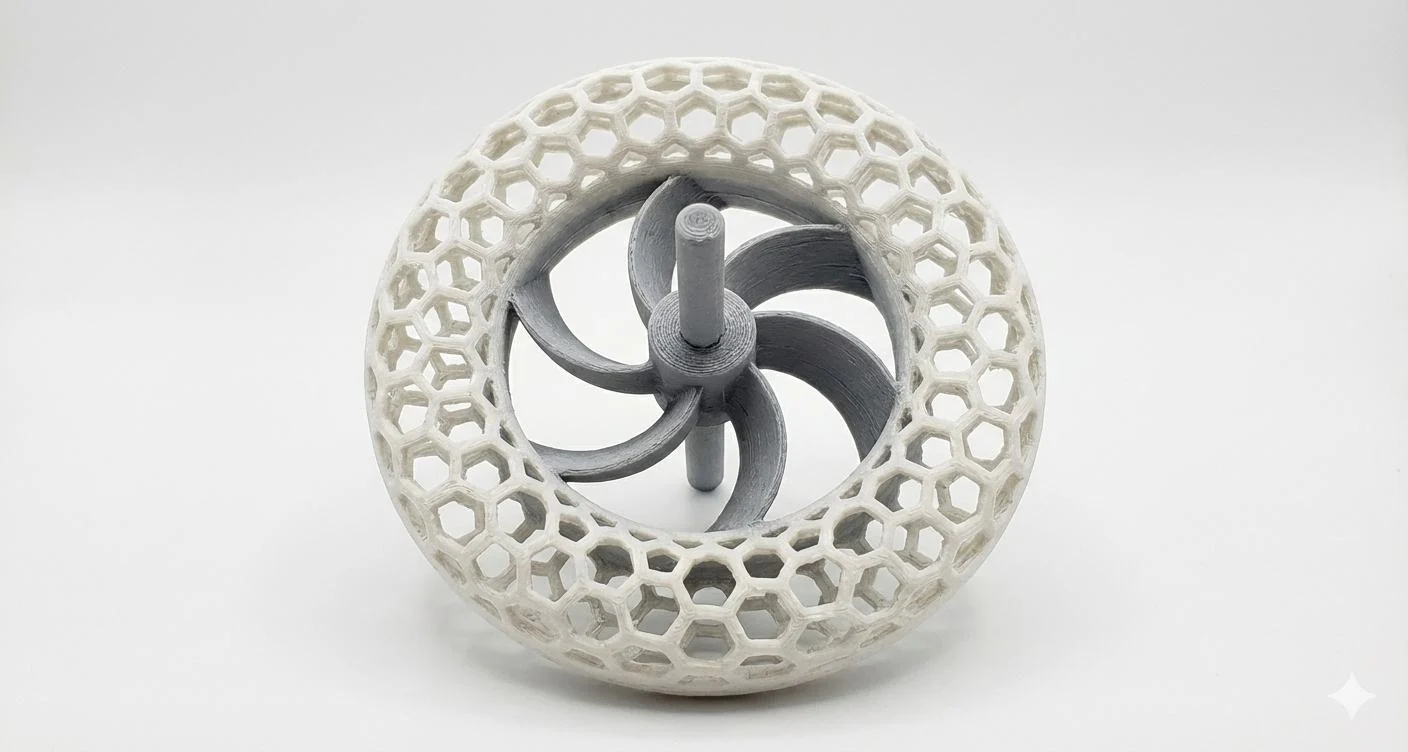
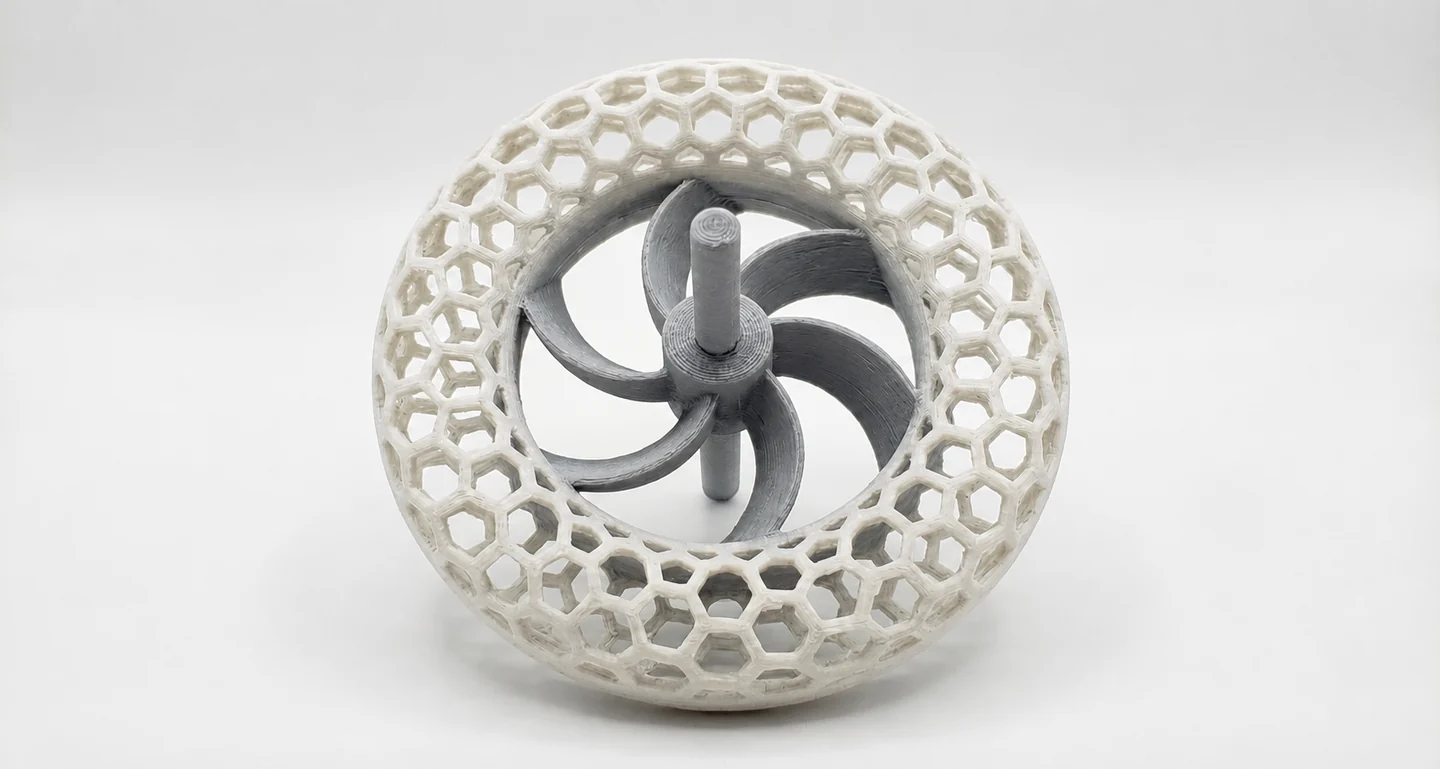
Refine whisk section layout and remove image watermark

diff --git a/project-fellow.html b/project-fellow.html
@@ -167,17 +167,20 @@
         </div>
       </div>
     </section>
-    <section class="proj-section section-tint" aria-labelledby="whisk-title">
-      <div class="offset-inner offset-inner--center">
-        <div class="whisk-stack">
-          <figure class=""><img src="./assets/fellow/whisk-models-1440.webp" srcset="./assets/fellow/whisk-models-640.webp 640w, ./assets/fellow/whisk-models-1440.webp 1440w" sizes="(max-width: 900px) calc(100vw - 36px), calc(50vw - 66px)" width="1440" height="1920" alt="Two small black printed whisk geometries resting on a page of sketches." loading="lazy" decoding="async"><figcaption>Printed whisk studies explored an alternative to a spring coil.</figcaption></figure>
-          <figure class=""><img src="./assets/fellow/whisk-concept-1440.webp" srcset="./assets/fellow/whisk-concept-640.webp 640w, ./assets/fellow/whisk-concept-1440.webp 1408w" sizes="(max-width: 900px) calc(100vw - 36px), calc(50vw - 66px)" width="1408" height="752" alt="Whisk concept visualization with curved gray blades surrounded by a white honeycomb ring." loading="lazy" decoding="async"><figcaption>Whisk concept visualization from the final presentation (AI-generated).</figcaption></figure>
-        </div>
+    <section class="proj-section section-tint whisk-section" id="whisk-section" aria-labelledby="whisk-title">
+      <div class="whisk-row">
         <div class="offset-copy">
           <h2 class="proj-eyebrow" id="whisk-title">Questioning the Whisk</h2>
           <h3>Could the mixing geometry be different?</h3>
-          <p>The familiar spring coil became another starting question. I explored an alternative whisk geometry through modeling and printed studies.</p>
-          <p>This remains a design hypothesis. Foam quality, fluid behavior, and manufacturability still need testing before the geometry can be evaluated against an existing whisk.</p>
+          <p>The familiar spring coil became another starting question. I explored alternative geometries through modeling and printed studies.</p>
+        </div>
+        <figure class="whisk-photo"><img src="./assets/fellow/whisk-models-1440.webp" srcset="./assets/fellow/whisk-models-640.webp 640w, ./assets/fellow/whisk-models-1440.webp 1440w" sizes="(max-width: 900px) calc(100vw - 36px), calc(50vw - 66px)" width="1440" height="1920" alt="Two small black printed whisk geometries resting on a page of sketches." loading="lazy" decoding="async"><figcaption>01 / Printed geometry studies.</figcaption></figure>
+      </div>
+      <div class="whisk-row">
+        <figure class=""><img src="./assets/fellow/whisk-concept-1440.webp" srcset="./assets/fellow/whisk-concept-640.webp 640w, ./assets/fellow/whisk-concept-1440.webp 1440w" sizes="(max-width: 900px) calc(100vw - 36px), calc(50vw - 66px)" width="1440" height="769" alt="Whisk concept visualization with curved gray blades surrounded by a white honeycomb ring." loading="lazy" decoding="async"><figcaption>02 / Whisk concept visualization (AI-generated).</figcaption></figure>
+        <div class="offset-copy">
+          <h3>Next: validate the geometry.</h3>
+          <p>The concept still needs testing for foam quality, fluid behavior, and manufacturability, with performance compared against an existing whisk.</p>
         </div>
       </div>
     </section>

diff --git a/fellow.css b/fellow.css
@@ -151,7 +151,13 @@
 .fellow-page .interaction-steps h3, .fellow-page .next-grid h3 { font-size: 21px; font-weight: 400; line-height: 1.35; margin: 16px 0 12px; }
 .fellow-page .interaction-steps p, .fellow-page .next-grid p { font-size: 15px; line-height: 1.75; color: #444; margin: 0; }
 .fellow-page .prototype-note { border-top: 1px solid #ccc; padding-top: 20px; font-size: 14px; }
-.fellow-page .whisk-stack { display: grid; gap: 28px; }
+.fellow-page .whisk-section { padding: 32px 44px; scroll-margin-top: var(--nav-h); }
+.fellow-page .whisk-row { display: grid; grid-template-columns: minmax(0,1fr) minmax(0,1.15fr); gap: clamp(24px,3.5vw,48px); align-items: center; }
+.fellow-page .whisk-row > figure { grid-column: 1; grid-row: 1; }
+.fellow-page .whisk-row > .offset-copy { grid-column: 2; grid-row: 1; }
+.fellow-page .whisk-row + .whisk-row { margin-top: 20px; padding-top: 20px; border-top: 1px solid #d9dcd6; }
+.fellow-page .whisk-photo img { aspect-ratio: 3/2; object-fit: cover; object-position: 50% 35%; }
+.fellow-page .whisk-section figcaption { padding-top: 8px; }
 .fellow-page .offset-stack img { max-height: 480px; object-fit: cover; }
 .fellow-page .image-grid--assembly img { aspect-ratio: 3/4; object-fit: cover; }
 .fellow-page .image-grid--engineering { align-items: center; }
@@ -167,6 +173,9 @@
 }
 @media (max-width: 760px) {
   .fellow-page .proj-hero__image { object-position: 50% 15%; }
+  .fellow-page .whisk-section { padding: 36px 18px; }
+  .fellow-page .whisk-row { grid-template-columns: 1fr; gap: 20px; }
+  .fellow-page .whisk-row > figure, .fellow-page .whisk-row > .offset-copy { grid-column: auto; grid-row: auto; }
   .fellow-page .sketch-grid { margin-top: 34px; }
   .fellow-page .image-grid--engineering { grid-template-columns: 1fr 1fr; gap: 18px; }
   .fellow-page .interaction-steps, .fellow-page .next-grid { grid-template-columns: 1fr; gap: 30px; }
